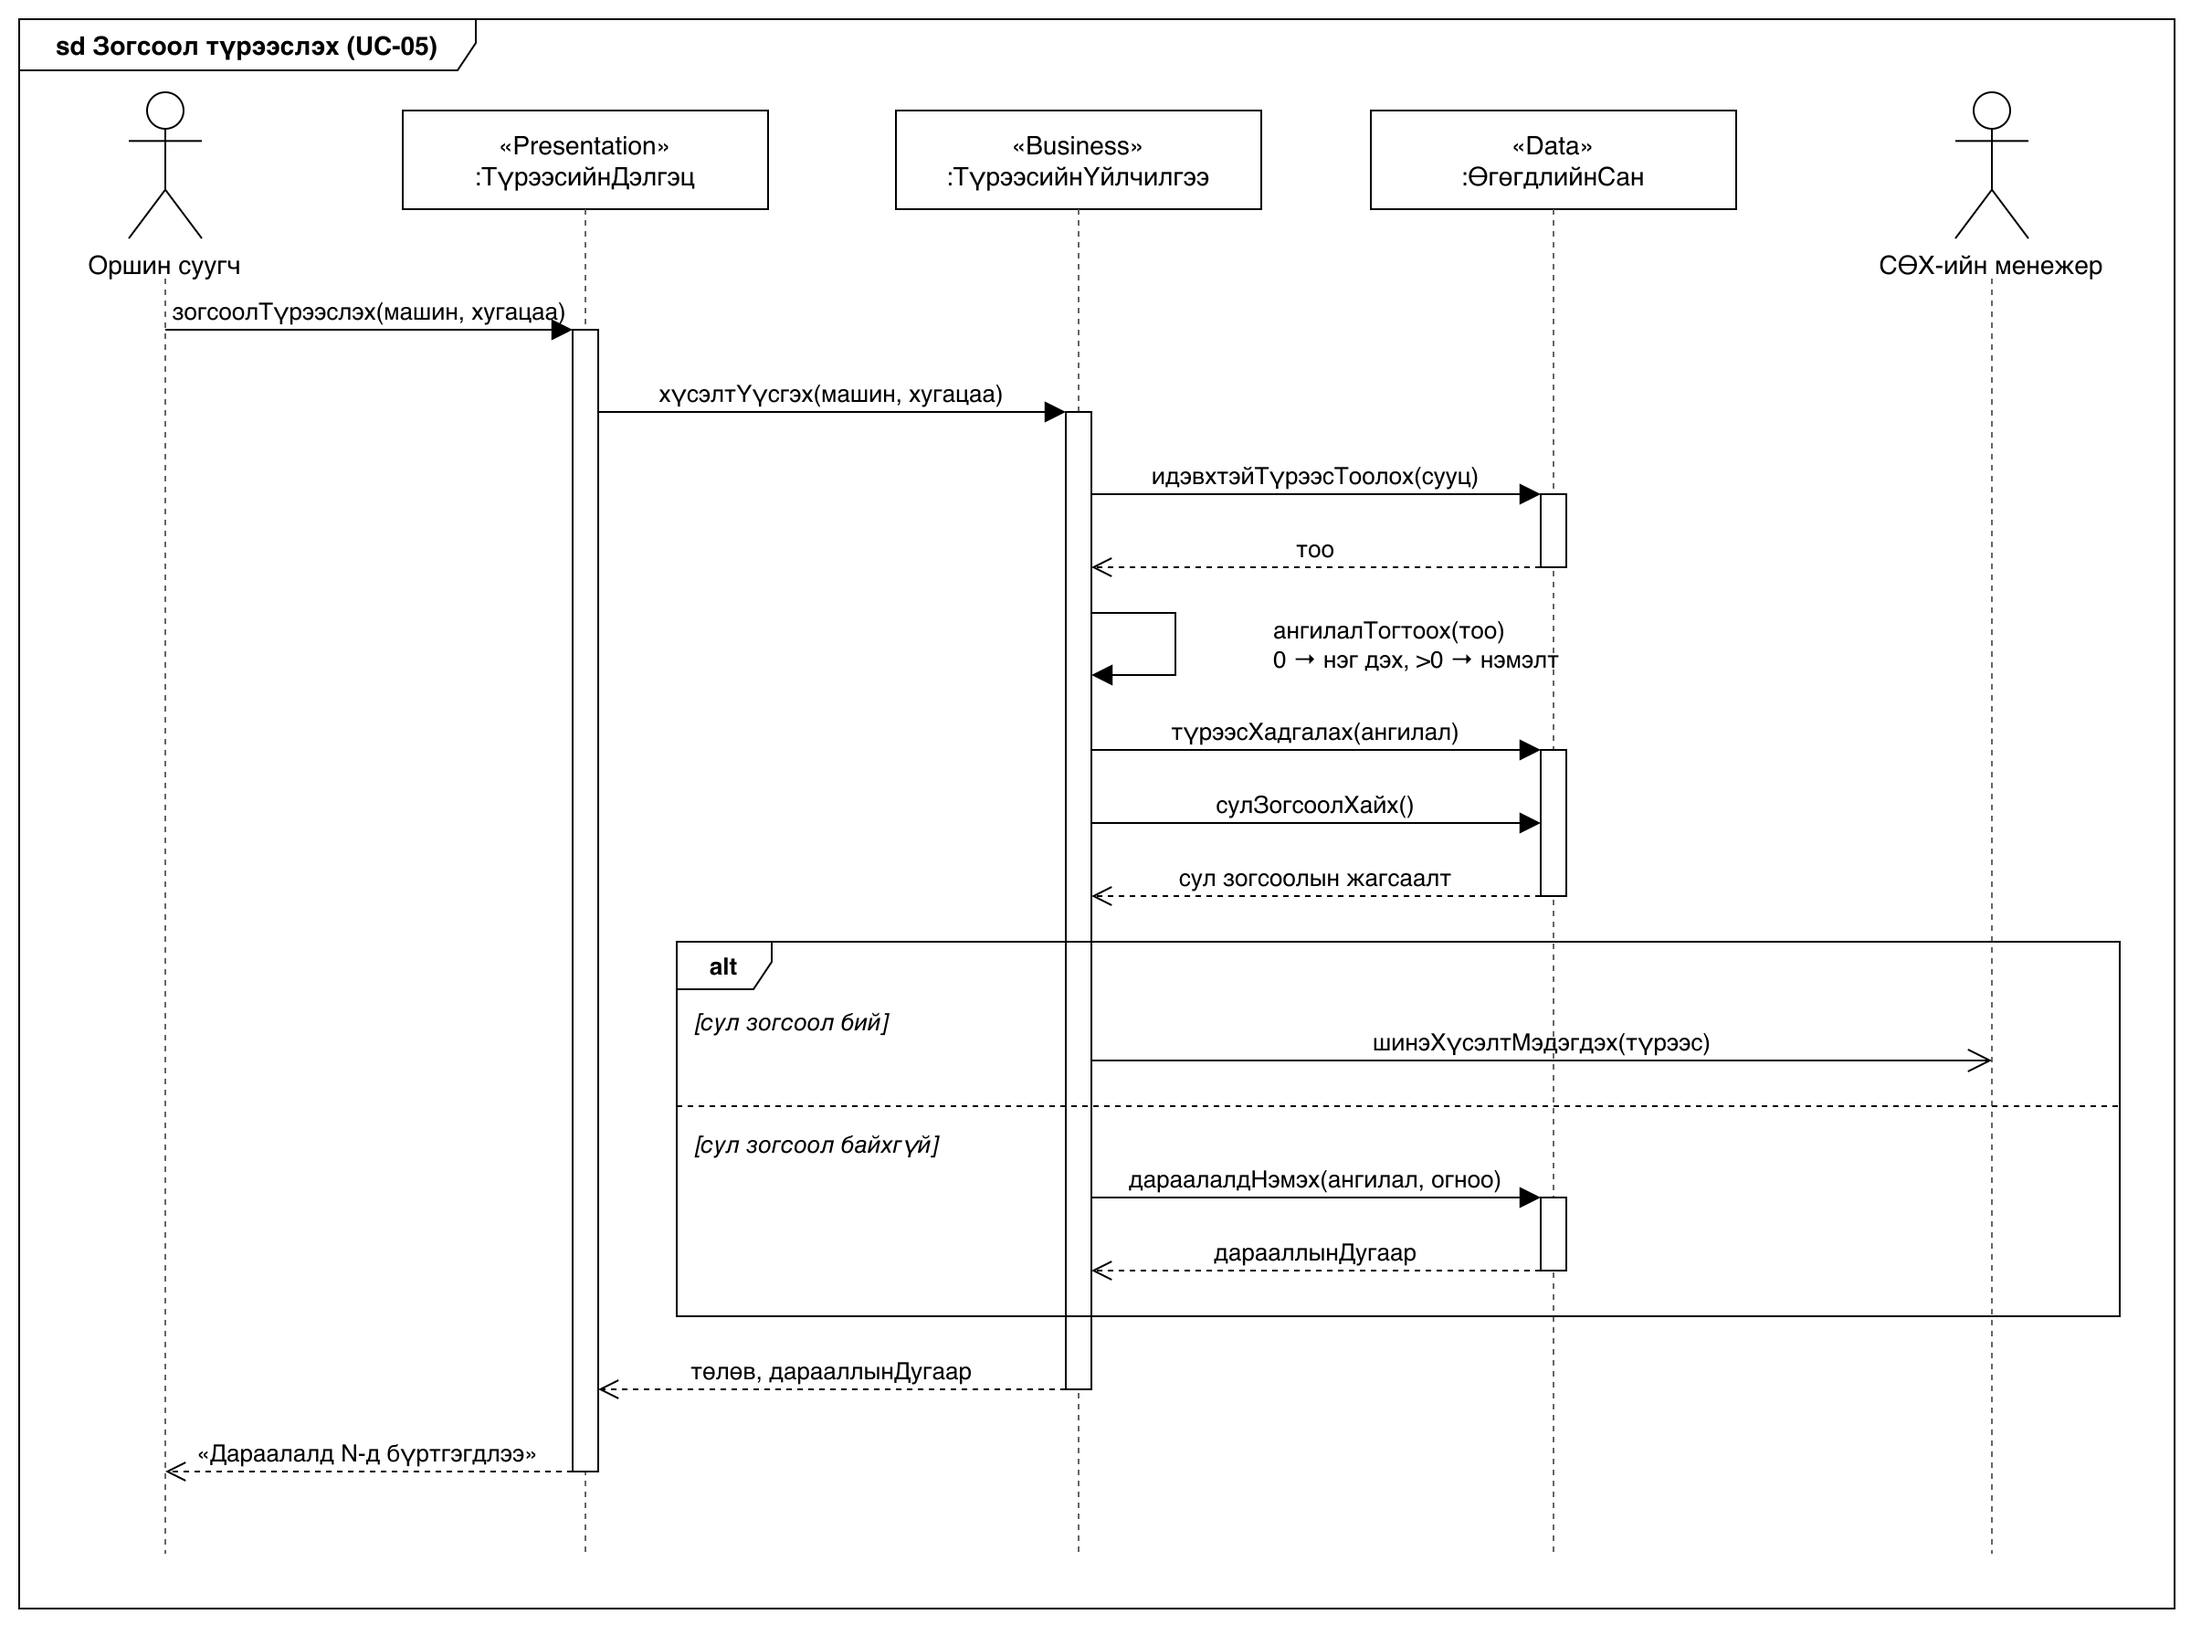
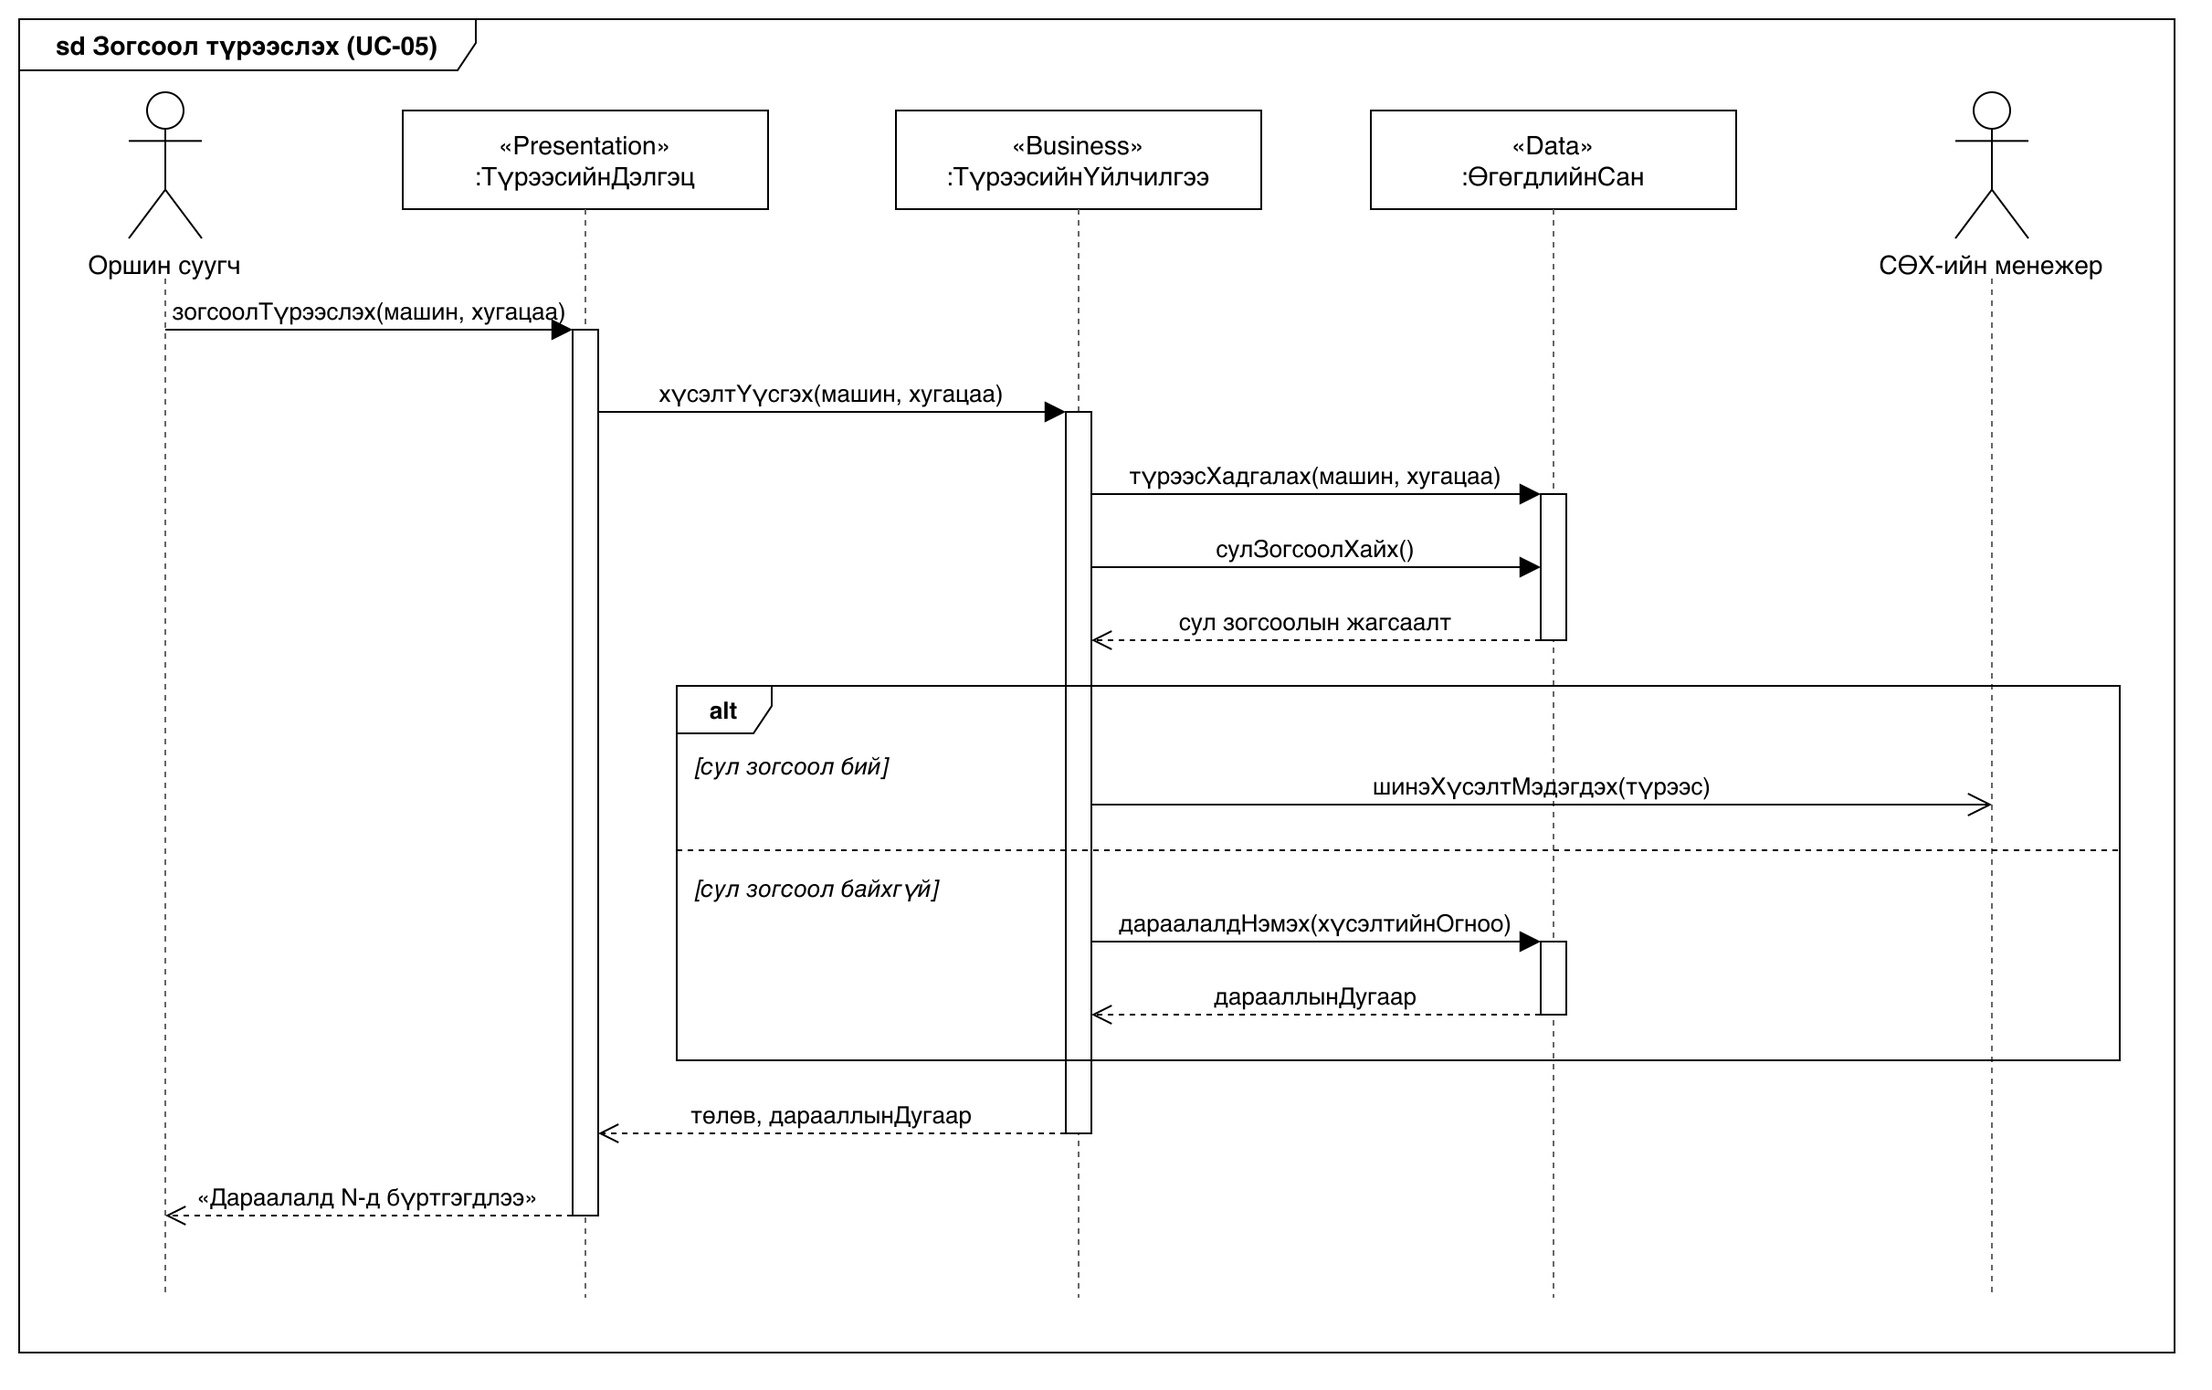
Лаб 5: Class, Sequence диаграмыг хүсэлтийн дарааллын дүрэмд тааруулав
Нэг дэх, нэмэлт машины ангилал, түрээсийн шалтгааныг хасав. Хүсэлтийг
зөвхөн ирсэн огноогоор эрэмбэлнэ (ФШ-12). Архитектурын эскизийн гарчгийн
урт зураасыг засав.

diff --git a/docs/lab5.md b/docs/lab5.md
@@ -4,6 +4,8 @@
 Төсөл: СӨХ-ийн сууц, машин, зогсоолын бүртгэлийн систем\
 Баг: Д.Ууганбаяр (Product Owner), Ц.Номунзаяа (Scrum Master)
 
+> **Шинэчилсэн (2026-10-20):** Лаб 5-ын дараа нэг дэх, нэмэлт машины ангиллыг хассан. Хүсэлтийг зөвхөн ирсэн дарааллаар эрэмбэлнэ. Class, Sequence диаграм ба тайлбарыг үүнд тааруулав.
+
 ## 1. Зорилго
 
 - Лаб 2-ын шаардлагаас Use Case, Class, Sequence диаграм зурах.
@@ -31,14 +33,14 @@
 | UC-02 Зогсоол бүртгэх | US-03 |
 | UC-03 Машин бүртгүүлэх | US-04 |
 | UC-04 Машин баталгаажуулах | US-05 |
-| UC-05 Зогсоол түрээслэх | US-06, US-07, US-08, US-09 |
-| UC-06 Зогсоол олгох | US-09, US-10, US-11 |
+| UC-05 Зогсоол түрээслэх | US-06, US-07, US-08 |
+| UC-06 Зогсоол олгох | US-10 |
 | UC-07 Нэхэмжлэх үүсгэх | US-12 |
 | UC-08 Төлбөр харах | US-13 |
 | UC-09 Тайлан гаргах | US-15 |
 | UC-10 Төлбөр харуулах | US-14 |
 
-US-01 (Gmail-ээр нэвтрэх) нь тусдаа use case биш, бүх use case-ийн өмнөх нөхцөл.
+US-01 (Gmail-ээр нэвтрэх) нь тусдаа use case биш, бүх use case-ийн өмнөх нөхцөл. US-09 (нэг дэх машиныг түрүүлүүлэх), US-11 (дарааллаас гадуур олголтын шалтгаан) нь хасагдсан дүрэм тул use case-д холбоогүй.
 
 ![Зураг 1. Use Case диаграм](img/lab5-usecase.png)
 
@@ -51,9 +53,9 @@ US-01 (Gmail-ээр нэвтрэх) нь тусдаа use case биш, бүх us
 | Хэрэглэгч | Gmail-ээр нэвтэрдэг бүх хэрэглэгчийн нийтлэг өгөгдөл. Өөрөөсөө шууд объект үүсгэхгүй. |
 | ОршинСуугч | Зогсоол хүсэж, дарааллаа харна. |
 | Менежер | Машин баталгаажуулж, зогсоол олгоно. |
-| Сууц | Сууцны код, байр, тоот. Өөр зогсоол түрээсэлж байгаа эсэхийг хариулна. Дарааллын ангилал үүнээс хамаарна. |
+| Сууц | Сууцны код, байр, тоот, талбай. Бүртгэлтэй машиныхаа тоог хариулна. |
 | Машин | Улсын дугаар, марк, өнгө, төлөв. Менежер баталгаажуулсан машинд л зогсоол хүснэ. |
-| ЗогсоолынТүрээс | Хүсэлтээс дуусах хүртэлх нэг машины түрээс. Ангилал (нэг дэх, нэмэлт), төлөв, шалтгааныг хадгална. |
+| ЗогсоолынТүрээс | Хүсэлтээс дуусах хүртэлх нэг машины түрээс. Хүсэлтийн огноо, хугацаа, төлөвийг хадгална. Дараалал хүсэлтийн огноогоор эрэмбэлэгдэнэ. |
 | Зогсоол | Дугаар, байршил, өмчлөлийн төрөл (дундын, хувийн), төлөв. |
 
 Холбоо ба үржвэр:
@@ -71,14 +73,13 @@ US-01 (Gmail-ээр нэвтрэх) нь тусдаа use case биш, бүх us
 
 ## 5. Sequence диаграм — Зогсоол түрээслэх
 
-Энэ нь US-06, US-07, US-09-ийн урсгал. Оролцогчид нь архитектурын гурван давхаргатай таарна.
+Энэ нь US-06, US-07-ийн урсгал. Оролцогчид нь архитектурын гурван давхаргатай таарна.
 
 1. Оршин суугч зогсоолгүй машинаа, хугацаагаа сонгож хүсэлт илгээнэ.
 2. Дэлгэц хүсэлтийг үйлчилгээ рүү дамжуулна.
-3. Үйлчилгээ тухайн сууцны идэвхтэй түрээсийг өгөгдлийн сангаас тоолно. 0 бол «нэг дэх», 1 ба түүнээс олон бол «нэмэлт» машин.
-4. Түрээсийг «Хүлээгдэж буй» төлөвтэй хадгалж, сул зогсоол хайна.
-5. **alt** хэсэг: сул зогсоол байвал менежерт мэдэгдэл илгээнэ. Байхгүй бол хүсэлтийг дараалалд нэмж, дарааллын дугаар авна.
-6. Дэлгэц оршин суугчид дарааллын дугаарыг харуулна.
+3. Үйлчилгээ түрээсийг «Хүлээгдэж буй» төлөвтэй хадгалж, сул зогсоол хайна.
+4. **alt** хэсэг: сул зогсоол байвал менежерт мэдэгдэл илгээнэ. Байхгүй бол хүсэлтийг дараалалд нэмж, дарааллын дугаар авна. Дараалал зөвхөн хүсэлтийн огноогоор эрэмбэлэгдэнэ.
+5. Дэлгэц оршин суугчид дарааллын дугаарыг харуулна.
 
 Тэмдэглэгээ: бүтэн сум нь дуудлага, тасархай сум нь хариу, нээлттэй сум нь хариу хүлээхгүй (асинхрон) мессеж, нарийн тэгш өнцөгт нь объект ажиллаж буй хугацаа.
 
